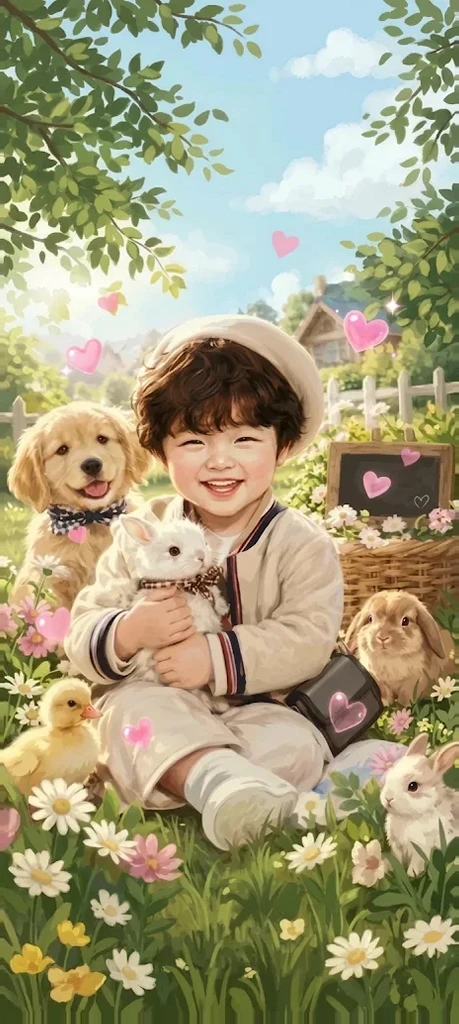
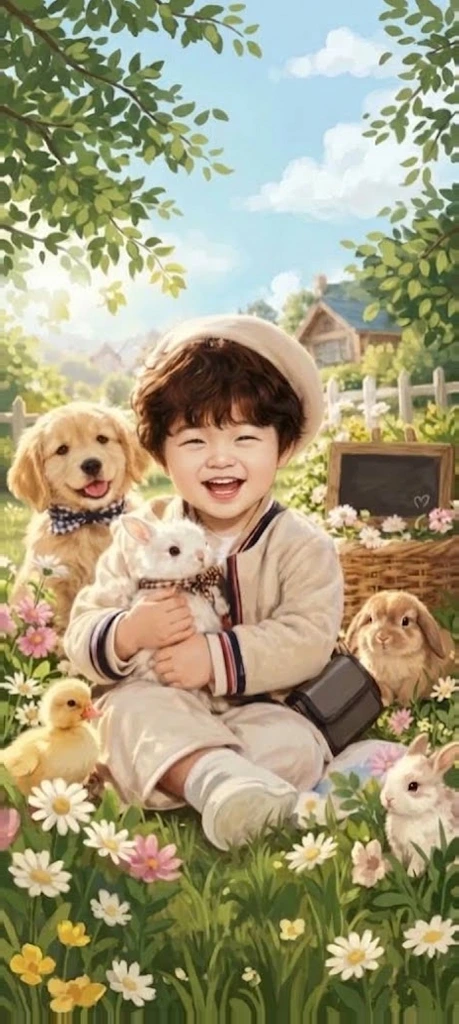
웃는 그림 새것으로(하트 없음), 하트는 모든 날씨에서 쿠비스가 띄움
Claude-Session: https://claude.ai/code/session_01RrHn9CmDWnLtiNYu7jY5aT

diff --git a/app/src/main/java/com/t/kuvis/Scene.kt b/app/src/main/java/com/t/kuvis/Scene.kt
@@ -339,7 +339,7 @@ class ScenePage(private val home: HomeActivity, private val bg: SceneBackground)
             start()
         }
         removeCallbacks(unsmile); postDelayed(unsmile, 1300)
-        if (bg.key != "clear") hearts()   // 맑은 날 웃는 그림에는 하트가 이미 그려져 있음
+        hearts()
         // 살짝 흔들림
         bg.animate().cancel()
         bg.translationY = 0f
